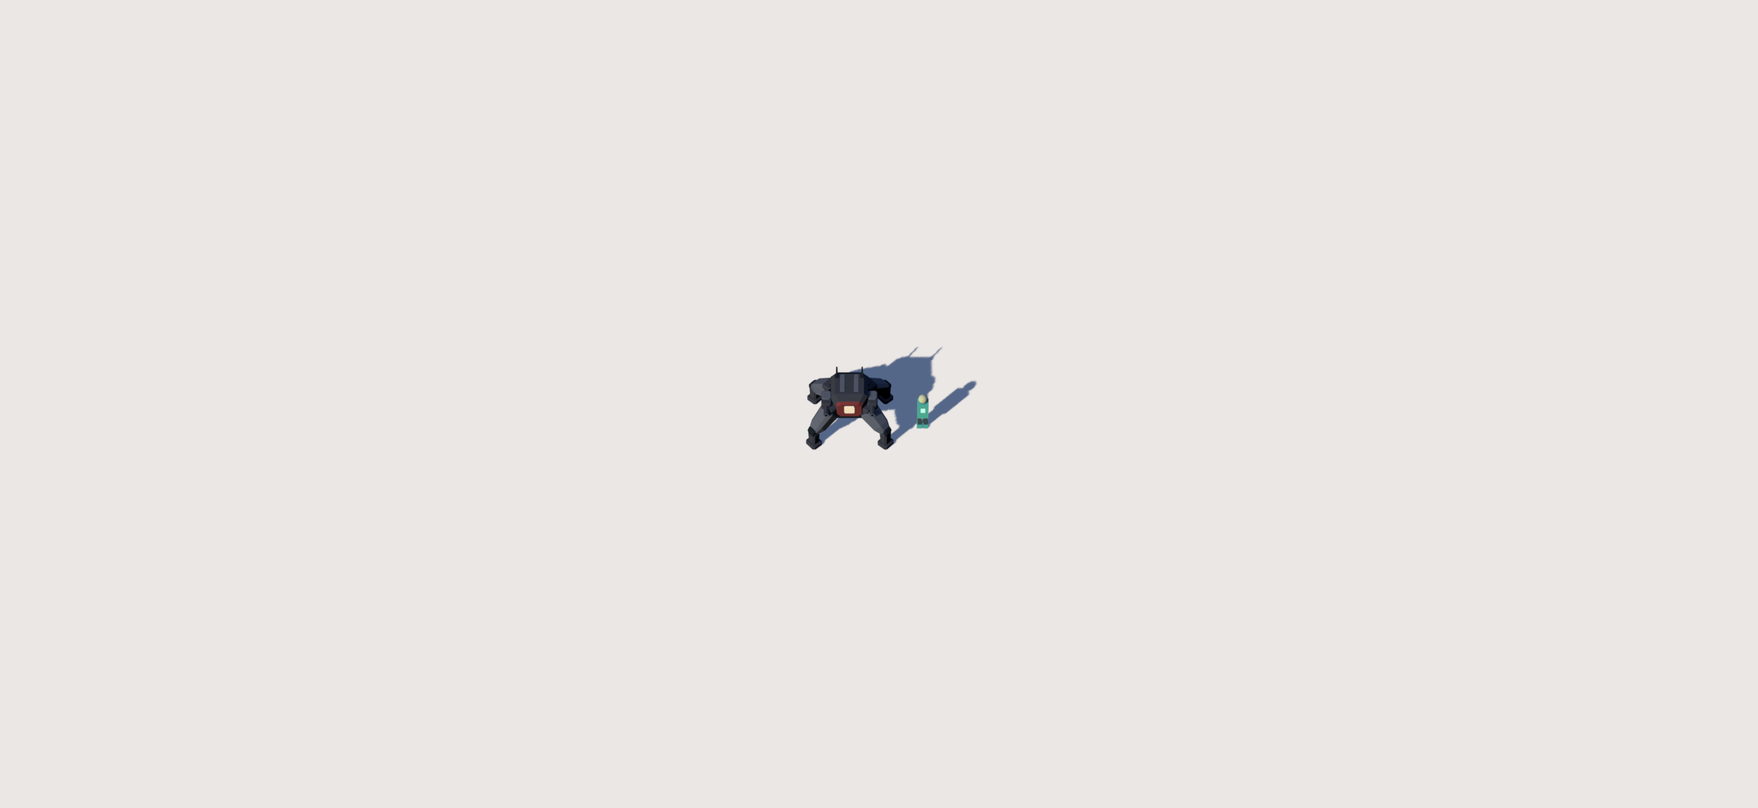
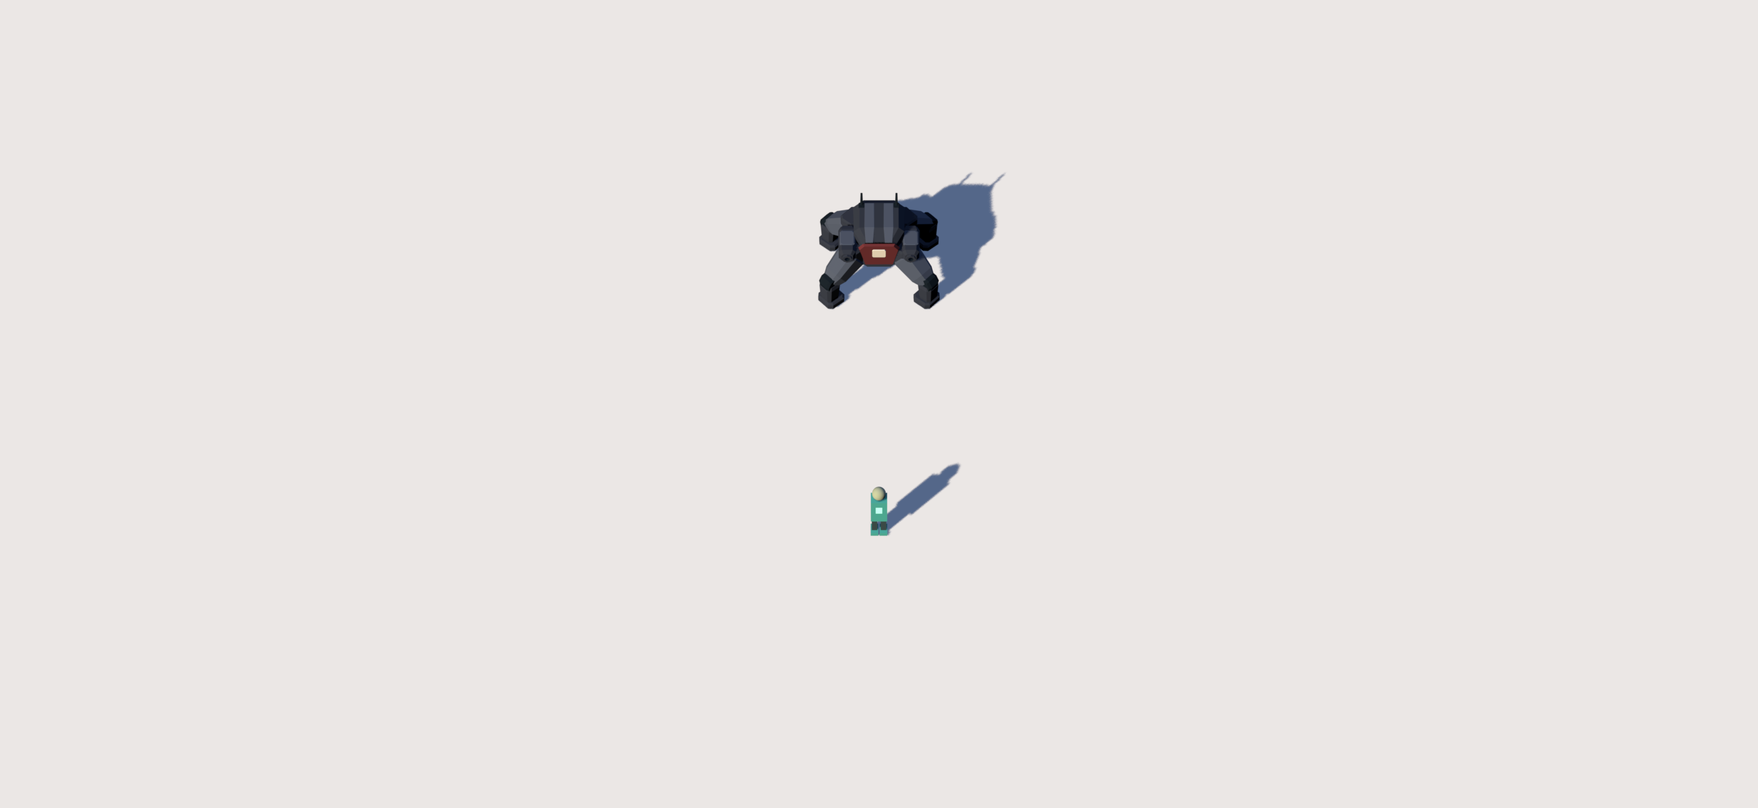
Refine C robot silhouette toward the agreed concept

Changed region(s): [[0.4634, 0.2148, 0.587, 0.3988], [0.4325, 0.4295, 0.5561, 0.5522], [0.4943, 0.5829, 0.5561, 0.675]]

diff --git a/apple/sources/content/RobotModelGeometry.swift b/apple/sources/content/RobotModelGeometry.swift
@@ -10,9 +10,9 @@ enum RobotModelGeometry {
   }
 
   // Combat offsets use game axes, facing -z. Gun 0 is the source's left gun.
-  static let bodyRadius: Float = 1.276274
+  static let bodyRadius: Float = 1.298624
   static let halfHeight: Float = 1.174272
-  static let navigationRadius: Float = 2.064909
+  static let navigationRadius: Float = 2.067892
   static let gunMounts: [SIMD3<Float>] = [
     [0.78, 1.52, -0.28],
     [-0.78, 1.52, -0.28],

diff --git a/blender/assets/spider-bot-heavy/README.md b/blender/assets/spider-bot-heavy/README.md
@@ -1,6 +1,6 @@
 # spider-bot-heavy
 
-**Status:** The maintainer accepted C's form and assigned Blender walking, turning and visual shooting studies before bridge placement. Those studies were accepted. The maintainer then assigned the first-tower runtime integration and Simulator movement/shooting checks; the standard check and rendered Simulator scenarios pass. A remains a possible later different-weapon variant, outside this task. Camera B remains approved.
+**Status:** The original C form and motion were accepted, integrated and delivered in TestFlight build 29. The maintainer then reported that the game model did not match the agreed concept closely enough and assigned improvements. This source and its three PNG previews now contain a silhouette refinement awaiting visual review; it is not an approved or released replacement. The full check and rendered first-fight test pass on this revision. A remains a possible later different-weapon variant, outside this task. Camera B remains approved.
 
 ![Actual Blender render of the C heavy walker](preview.png)
 
@@ -11,7 +11,9 @@ The earlier [spider-bot](../spider-bot/README.md) remains a rejected historical 
 
 ## Reusable components and symmetry
 
-The self-contained `spider-bot-heavy` collection uses metres, stands on z = 0 at its centred origin and faces Blender −y. Its **41 mesh Objects share 17 unique Mesh datablocks**, with **2,428 evaluated triangles and five materials**. Reuse is an authoring property, not measured runtime instancing or draw calls.
+The self-contained `spider-bot-heavy` collection uses metres, stands on z = 0 at its centred origin and faces Blender −y. Its **41 mesh Objects share 17 unique Mesh datablocks**, with **2,492 evaluated triangles and five materials**. Reuse is an authoring property, not measured runtime instancing or draw calls.
+
+The pending refinement gives C a longer tapered face, sloping roof panels, substantial integrated cannon housings with recessed bores, and stouter knees, lower legs and feet. Pivots, actions, link lengths and muzzle-marker transforms remain unchanged. It retains the six shared leg-component meshes, each used four times, and the paired gun components.
 
 All four legs use the same six shared meshes: socket armour, hip hinge, upper armour, knee hinge, lower link and foot. Editing a component's Mesh in Edit Mode updates its four instances. Moving or posing an Object affects that instance only. Neutral left/right geometry mirrors across x = 0, including material assignments. Proper rotations place each assembly; object scales stay positive and unit. Independently posed legs during a step do not alter this shared geometry.
 
@@ -34,7 +36,7 @@ root
     muzzle-left                 Moves with its barrel
 ```
 
-Connectors sit at `(±0.58, ±0.42, 1.28)` m. Joint pivots meet at their link endpoints; the upper/lower links measure **1.01 / 0.57 m**. Opening the knees slightly gives the accepted shape room to step: neutral vertex bounds are about **3.00 × 2.53 × 2.35 m**, versus the static study's 2.83 × 2.51 × 2.35 m. Intake's conservative transformed-box bounds are slightly larger. These are provisional authoring dimensions, not approved collision or clearance measurements.
+Connectors sit at `(±0.58, ±0.42, 1.28)` m. Joint pivots meet at their link endpoints; the upper/lower links measure **1.01 / 0.57 m**. Opening the knees slightly gives the shape room to step: current neutral vertex bounds are about **3.02 × 2.56 × 2.35 m**, versus the static study's 2.83 × 2.51 × 2.35 m. Intake's conservative transformed-box bounds are slightly larger. These are provisional authoring dimensions, not approved collision or clearance measurements.
 
 To attach another assembly, select its connector and descendants, duplicate with linked data and place the new connector. Preserve the hierarchy, joint-local origins and unit scales. Make mesh data single-user only for a deliberate new component. Paired roof ridges, antennae, mounts and gun parts also share data. Each gun's separate recoil root carries its housing, plate, barrel and muzzle marker together, providing an attachment point for later variants without building those variants now.
 
@@ -42,7 +44,7 @@ There are no textures, lights, cameras, armatures, constraints, shape keys or ru
 
 ## Motion studies
 
-The scene is **30 fps**, with a **120 Hz transform bake** and linear interpolation, saved at neutral **frame 1**. Timeline markers identify separate takes:
+The scene is **30 fps**, with a **120 Hz transform bake** and linear interpolation, saved at neutral **frame 1**. The refinement preserves these accepted transform keys; the retained movie below shows the earlier mesh. Timeline markers identify separate takes:
 
 | Frames | Study | Review intent |
 |---|---|---|
@@ -59,24 +61,26 @@ Firing plants all four feet before recoil starts. Both guns use matching stroke/
 
 ## Review and validation
 
-The [30-second motion reel](motion-preview.mp4) presents separate labelled shots: walk at 0–8 s, turn left at 8–16 s, turn right at 16–24 s, brace/fire/recover at 24–30 s. It is H.264, 960 × 720, 24 fps, with 720 decoded frames. Recoil is restrained; judge its strength in playback before adding gameplay cues. [Beside Miki](scale-preview.png) shows current provisional size; the [camera B study](camera-b-preview.png) uses the approved offset `[0, 56, 44]` and 22° lens. These are Blender renders, not game screenshots.
+The retained [30-second motion reel](motion-preview.mp4) is a **historical accepted-rig reference showing the earlier 2,428-triangle form**, not the current refinement. It presents separate labelled shots: walk at 0–8 s, turn left at 8–16 s, turn right at 16–24 s, brace/fire/recover at 24–30 s. It is H.264, 960 × 720, 24 fps, with 720 decoded frames. The current [hero preview](preview.png) and [view beside Miki](scale-preview.png) show the refined mesh. The [camera B study](camera-b-preview.png) uses the approved offset `[0, 56, 44]` with the existing **15.4° combat lens**, Miki 8 m from the guard, a 3 m camera lean and target height 0.95 m. The normal lens remains 22°. These PNGs are Blender studies, not Simulator screenshots.
 
 They use the bridge's two suns and an authoring exposure of +0.7. Ground, Miki, lights and cameras exist only in unsaved render copies. Public PNG metadata is removed without changing pixels. The Blender source and movie use Git LFS; PNGs below 1 MiB use ordinary Git under the [storage policy](../../../CONTRIBUTING.md#git-lfs-and-cloning).
 
-The standard `./scripts/check` passes contracts, 51 Blender tests, sound fingerprints, Swift formatting, the shared app build and hosted Simulator tests on this source-only pass. Final independent saved-file inspection sampled 7,204 poses at 240 Hz, including half-key subframes: stance drift stays below 0.029 mm, stance yaw drift below 0.000060°, foot tilt below 0.0053° and sole penetration below 0.012 mm. Joint gaps are zero; link-length error is below 0.00000023 m. Neutral geometry/material symmetry error is below 0.00000029 m and mirrored-turn error below 0.0000036 m. These are floating-point residuals, not visible intended sliding. Shared-data identity, positive unit scales, topology, part contact, materials, muzzle placement, intake and privacy checks pass. Sampled rendered poses were inspected; all 720 movie frames decode successfully. Prior static checks remain historical in the [prototype plan](../../../docs/prototype-plan.md#concept-c-proportion-study). The robot export writes the neutral frame with named parent transforms preserved and generates `RobotModelGeometry.swift` from the same source. It does not export source timeline clips or instancing. A focused runtime presenter uses the loaded parts with a planted-foot solve; fixed-step combat owns positions, aim and damage. Integration verification is recorded separately below; phone performance remains unverified.
+**Historical motion-study checks, before this refinement:** `./scripts/check` passed contracts, 51 Blender tests, sound fingerprints, Swift formatting, the shared app build and hosted Simulator tests. Independent saved-file inspection sampled 7,204 poses at 240 Hz, including half-key subframes: stance drift stayed below 0.029 mm, stance yaw drift below 0.000060°, foot tilt below 0.0053° and sole penetration below 0.012 mm. Joint gaps were zero; link-length error was below 0.00000023 m. Neutral geometry/material symmetry error was below 0.00000029 m and mirrored-turn error below 0.0000036 m. Shared-data identity, positive unit scales, topology, part contact, materials, muzzle placement, intake and privacy checks passed. Sampled rendered poses were inspected; all 720 movie frames decoded successfully. Prior static checks remain historical in the [prototype plan](../../../docs/prototype-plan.md#concept-c-proportion-study).
+
+**Current refinement checks:** Independent saved-file audits confirm closed manifold meshes, positive volumes, neutral geometry/material symmetry and unchanged pivots, actions and muzzle transforms. The leg-motion audit sampled 7,265 poses: sole penetration remained below 0.012 mm, stance sole-height error below 0.029 mm and foot tilt below 0.0053°. The final cannon-bore revision changes only the shared gun housing/barrel meshes, so the unchanged leg geometry and keys retain that audit. These authoring checks do not establish visual acceptance, runtime verification or phone performance.
 
 The maintainer accepted this source motion and assigned bridge integration. The [first-tower record](../../../docs/encounters/bridge-spider-bot.md) describes the initial gameplay choices and remaining balance questions.
 
 | File | Size in bytes | Storage |
 |---|---:|---|
-| `spider-bot-heavy.blend` | 1,714,534 | Git LFS |
+| `spider-bot-heavy.blend` | 1,721,736 | Git LFS |
 | `motion-preview.mp4` | 1,274,401 | Git LFS |
-| `preview.png` | 375,158 | Ordinary Git |
-| `scale-preview.png` | 436,880 | Ordinary Git |
-| `camera-b-preview.png` | 91,715 | Ordinary Git |
+| `preview.png` | 354,143 | Ordinary Git |
+| `scale-preview.png` | 449,571 | Ordinary Git |
+| `camera-b-preview.png` | 114,433 | Ordinary Git |
 
 ## Runtime integration
 
 The [runtime USDZ](../../../apple/sources/content/models/spider-bot-heavy.usdz) retains this model's CC BY 4.0 credit and changes. `RobotModelGeometry.swift` is generated alongside it, with both outputs fingerprinted against this Blender source. The output keeps the named leg pivots, gun mounts and muzzle markers; other models retain their existing export path. Runtime stepping follows actual translation and turning, rather than the authoring timeline's travel or reset frames. A remains a later variation, not an extra runtime model.
 
-The standard check, loaded-model joint/muzzle tests and rendered first-fight (35/35), retry (15/15) and full opening (56/56) pass. Runtime gait uses a 1° stop-turn-advance gate and earlier stepping so tested patrol/combat feet remain reachable, with independent FK/stance errors below 0.002 mm. See the [runtime verification](../../../docs/prototype-plan.md#c-robot-on-the-bridge). The earlier 240 Hz audit above applies to the Blender study and is not a measurement of runtime gait or physical-phone performance.
+For the original form shipped in build 29, the standard check, loaded-model joint/muzzle tests and rendered first-fight (35/35), retry (15/15) and full opening (56/56) passed. Runtime gait uses a 1° stop-turn-advance gate and earlier stepping so tested patrol/combat feet remain reachable, with independent FK/stance errors below 0.002 mm. The refined export also passes the full check, including the real-USDZ joint/grounding/muzzle tests, and a new rendered first-fight run (35/35) with no failures or companion warnings. Generated bounds follow the new geometry: navigation clearance increases by about 3 mm. See the [runtime verification](../../../docs/prototype-plan.md#c-silhouette-refinement--awaiting-visual-review). No new TestFlight delivery is claimed. The authoring audits above are not measurements of runtime gait or physical-phone performance.

diff --git a/docs/prototype-plan.md b/docs/prototype-plan.md
@@ -80,7 +80,7 @@ The maintainer selected **C, Heavy walker**, for a Blender proportion study, the
 
 ### Concept C Blender motion and shared parts
 
-The maintainer accepted C's form and assigned Blender animations of walking, turning and shooting before placing the robot on the bridge. This authorises source motion studies and reusable linked components. The new source has 41 mesh Objects sharing 17 unique Mesh datablocks, with 2,428 evaluated triangles and five matte materials. Each leg uses the same six shared component meshes under independent joint pivots; paired gun, roof and antenna parts also share data. Neutral dimensions are about 3.00 × 2.53 × 2.35 m after opening the knees for articulation, still provisional. Walking, mirrored 90° step-turns and a planted brace/recoil/recovery are baked at 120 Hz in a 30-fps source timeline. The maintainer subsequently accepted the [30-second rendered reel](../blender/assets/spider-bot-heavy/motion-preview.mp4) and assigned runtime integration.
+The maintainer accepted C's form and assigned Blender animations of walking, turning and shooting before placing the robot on the bridge. This authorised source motion studies and reusable linked components. That motion-study source had 41 mesh Objects sharing 17 unique Mesh datablocks, with 2,428 evaluated triangles and five matte materials. Each leg used the same six shared component meshes under independent joint pivots; paired gun, roof and antenna parts also shared data. Neutral dimensions were about 3.00 × 2.53 × 2.35 m after opening the knees for articulation, still provisional. Walking, mirrored 90° step-turns and a planted brace/recoil/recovery were baked at 120 Hz in a 30-fps source timeline. The maintainer subsequently accepted the [30-second rendered reel](../blender/assets/spider-bot-heavy/motion-preview.mp4) and assigned runtime integration. The retained reel shows this earlier form, before the silhouette refinement below.
 
 On the animated source, `./scripts/check` passed the contracts, 51 Blender tests, sounds, formatting, app build and hosted Simulator tests. Final independent saved-file inspection sampled 7,204 poses at 240 Hz: stance drift below 0.029 mm, foot tilt below 0.0053°, sole penetration below 0.012 mm and zero joint gaps. Neutral and mirrored-turn geometry/material symmetry, linked-data reuse, topology, contacts, muzzles, palette, intake and privacy checks pass. All 720 rendered movie frames decode. The model README records the timeline and tolerances. No runtime source, bridge export or rejected model changed; no new phone check, rendered Simulator route, release or bridge placement occurred. These source checks do not establish runtime clip compatibility, phone performance or motion approval.
 
@@ -109,6 +109,14 @@ The initial integration task recorded no new phone or release evidence. Its froz
 The follow-up review for [PR #134](https://github.com/RonildoBraga/lauder/pull/134) checked combat, progression and the rig/export pipeline independently. It corrected stale human-shooter/body-search descriptions and clarified the existing injury policy: unresolved retreat preserves damage and ammunition; completed defeat or safe bypass recovers encounter-local injuries. An injured-bypass regression and a retreat-through-search-to-patrol regression verify that distinction. `./scripts/check` passed again, as did all 49 local links/anchors in the four changed Markdown documents. This follow-up changes tests, comments and documentation only; it adds no phone or rendered-performance claim.
 
 **TestFlight integration, 23 November 2026:** The maintainer authorised integrating the reviewed work and delivering it through TestFlight. [PR #134](https://github.com/RonildoBraga/lauder/pull/134) incorporated #128–#133 as one squash because the repository allows squash merges only; the earlier drafts were closed as incorporated rather than individually merged. Integrated app/archive source `ea47e2b40d5fa4a4c4c16149e9755ac5475f9b7e` has the exact tree of reviewed release-preparation commit `26c5d99977290283b41e6a2a3ed93dfcabc17c4c`. Apple discovery selected unused **0.1.0 (29)**, and archive/upload rechecked accepted and processing uploads. The [delivery record](#testflight-delivery) confirms processing and unchanged tester access. Physical-phone behaviour and performance remain unverified.
+
+### C silhouette refinement — awaiting visual review
+
+After build 29 was delivered, the maintainer reported that the robot did not resemble the agreed concept closely enough and assigned improvements. The current [Blender source and three PNG previews](../blender/assets/spider-bot-heavy/README.md) revise the tapered mask and roof, integrate chunkier cannons with recessed bores, and strengthen the lower legs, knees and feet. The model retains 41 mesh Objects, 17 shared Mesh datablocks and five materials, with 2,492 triangles. The six leg-component meshes still have four users each; pivots, actions, link lengths and muzzle transforms remain unchanged.
+
+Independent authoring audits pass for mesh closure, positive volumes, symmetry and preserved rig data. A 7,265-pose leg-motion audit remains valid through the final gun-only correction because leg geometry and keys are unchanged. The replacement PNGs show actual refined geometry; the camera-B study uses the existing 15.4° combat lens, offset `[0, 56, 44]`, Miki 8 m from the guard and a 3 m lean towards it, at target height 0.95 m. They use the bridge lights and +0.7 authoring exposure and are Blender studies rather than Simulator screenshots. The retained movie shows the earlier accepted form.
+
+The refined Blender source, USDZ and generated geometry pass `./scripts/check`, including source/release contracts, 52 Blender tests, sounds, formatting, the app build and hosted Swift Testing with the real-USDZ joint/muzzle and foot regressions. A new rendered `first-fight` passes **35/35**, with zero failures or companion warnings; movement, turns, actual bursts, recovery, defeat and Restart were recorded and frames inspected. Mean frame time was **16.7 ms**, p99 **16.8 ms**, maximum **115.1 ms** on Simulator; this does not establish phone performance. Runtime/source fingerprints match throughout validation. Navigation radius is regenerated as **2.067892 m** (about 3 mm larger), and body radius as **1.298624 m**; joint lengths, muzzle markers, camera, bridge geometry and gameplay code remain unchanged. Visual approval, merge and release have not occurred. Build 29 remains the last TestFlight delivery and contains the previous form.
 
 ### Architecture checks
 
@@ -155,7 +163,7 @@ The build 26 tuning and measurements in [ADR 0016](decisions/0016-combat-balance
 
 ## Combat design review gate
 
-The C first-tower runtime prototype is implemented and its source/Simulator checks pass. Review whether the short loop is readable and enjoyable; source tests and Simulator success do not settle balance or phone performance. New scenes, A's variant and releases remain separate work.
+The original C first-tower runtime prototype is implemented and its source/Simulator checks passed for build 29. First review the pending silhouette refinement against concept C in both the close view and camera B. Its current verification is recorded above. Review whether the short loop is readable and enjoyable; source tests and Simulator success do not settle balance or phone performance. New scenes, A's variant and releases remain separate work.
 
 The broader squad combat direction, [The Quiet Yard](encounters/the-quiet-yard.md) and later narrative plans remain reference rather than assignments. The removed S4 experiments stay retired.
 

diff --git a/README.md b/README.md
@@ -10,13 +10,15 @@ Miki crosses the snowbound bridge towards Manhattan, meets Tom through a fight a
 
 Swift, RealityKit and SwiftUI remain the technical direction ([ADR 0001](docs/decisions/0001-engine.md)). Blender remains the source of the bridge and character models ([ADR 0002](docs/decisions/0002-blender-source-of-truth.md)). Use simple shapes and colours until a concrete gameplay need warrants art work.
 
-The current bridge-only prototype, including the Blender environment, camera B and C robot guard, is delivered in **TestFlight 0.1.0 (29)**, app/archive source `ea47e2b`. The source-bound standard check and signed archive verification passed. Apple confirmed successful processing and availability to the existing internal testers, with membership unchanged. The [prototype plan](docs/prototype-plan.md#testflight-delivery) records exact sources, checks and delivery proof, including the earlier structural-preparation build **0.1.0 (28)**. Physical-phone installation, behaviour, performance and enjoyment remain unverified for build 29.
+The latest TestFlight delivery is the bridge-only prototype with the Blender environment, camera B and the previous C robot form: **0.1.0 (29)**, app/archive source `ea47e2b`. The source-bound standard check and signed archive verification passed. Apple confirmed successful processing and availability to the existing internal testers, with membership unchanged. The [prototype plan](docs/prototype-plan.md#testflight-delivery) records exact sources, checks and delivery proof, including the earlier structural-preparation build **0.1.0 (28)**. Physical-phone installation, behaviour, performance and enjoyment remain unverified for build 29.
 
 **Robot integration, 23 November 2026:** The maintainer accepted C's form and motion and assigned replacing the first human shooter on the bridge, with movement and shooting verified in Simulator. The first-tower guard, bounded movement, committed alternating burst and supply-case/bypass handoff are implemented. The later knife attacker and Tom/Laura recruitment remain. [Concept A](art/robot/bulk-studies/README.md#a--armoured-crawler) stays a possible later different-weapon variant; concept B is unselected. Prototype timing and balance are starting values, not settled design. The [encounter record](docs/encounters/bridge-spider-bot.md) describes the implementation and remaining playtest questions.
 
 **Bridge environment, 23 November 2026:** The maintainer first assigned the scene in Blender, deferring the robot. The [level source](blender/levels/README.md) now has low-poly pointed arches, weathered stone, dark cable fans and low off-route snow facets, guided by the selected concept. That environment pass preserved the gameplay layout and camera. Its verification is recorded in the [prototype plan](docs/prototype-plan.md#bridge-environment-pass).
 
-**Camera and robot, 23 November 2026:** Camera B remains approved: offset `[0, 56, 44]`, 22° lens. C's [Blender source](blender/assets/spider-bot-heavy/README.md) retains the accepted form, [motion studies](blender/assets/spider-bot-heavy/motion-preview.mp4) and shared symmetric leg components. Runtime geometry and joint/muzzle measurements come from that source; fixed-step combat owns decisions and the presenter poses the loaded parts from actual movement and firing. The standard check and rendered Simulator guard, retry and full-opening routes pass; the [prototype plan](docs/prototype-plan.md#c-robot-on-the-bridge) records the evidence. This work is included in TestFlight build 29; physical-phone behaviour and performance remain unverified.
+**Camera and robot, 23 November 2026:** Camera B remains approved: offset `[0, 56, 44]`, 22° lens. C's retained [motion reel](blender/assets/spider-bot-heavy/motion-preview.mp4) records the earlier accepted form and rig studies. Runtime geometry and joint/muzzle measurements come from Blender; fixed-step combat owns decisions and the presenter poses the loaded parts from actual movement and firing. The original standard check and rendered Simulator guard, retry and full-opening routes passed; the [prototype plan](docs/prototype-plan.md#c-robot-on-the-bridge) records that evidence for TestFlight build 29. Physical-phone behaviour and performance remain unverified.
+
+**C silhouette refinement, pending review:** Following the maintainer's report that the game model differed from concept C, the current [Blender source and PNG previews](blender/assets/spider-bot-heavy/README.md) have a longer tapered face, integrated chunky cannons with recessed bores, and stouter lower legs, knees and feet. The symmetric shared components, pivots and accepted motion keys remain. The full check and rendered first-fight test pass; visual approval remains pending. This revision is not merged or released. Build 29 retains the previous form. A's later variation remains deferred.
 
 ## Start here
 
